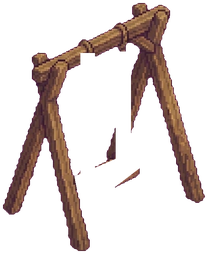
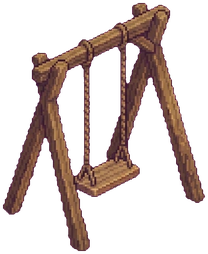
Хутір: гойдалка знову статичний спрайт
Claude-Session: https://claude.ai/code/session_01QbSGMrSJLDjAsZmBx5QAUW

Changed region(s): [[0.3462, 0.1929, 0.6635, 0.7992]]

diff --git a/ads/khutir/game.js b/ads/khutir/game.js
@@ -827,19 +827,6 @@
     q.fillStyle = '#2A1C14'; for (const [x, y] of e) q.fillRect(x, y, 1, 1);
     return (decoCache[k] = c);
   }
-  // гойдалка: мотузки й сидіння малюються кодом, щоб рухатись разом із селянином
-  const SW = {"t1": [-2.8, -34.0], "t2": [3.0, -35.7], "s1": [-4.8, -12.3], "s2": [3.3, -15.8], "s3": [6.1, -14.3], "s4": [-1.6, -9.0]};
-  const swingOff = (t) => { const a = Math.sin(t / 420); return [9 * a, 4.5 * a - Math.abs(a) * 1.5]; };
-  function drawSwing(X, Y, z, flip, a) {
-    g.save(); g.translate(X, Y); g.scale((flip ? -1 : 1) * z, z); const [dx, dy] = a, sp = (p) => [p[0] + dx, p[1] + dy];
-    g.lineCap = 'butt'; g.strokeStyle = '#8A6A3F'; g.lineWidth = 1;
-    const lineTo = (t0, q) => { g.beginPath(); g.moveTo(t0[0], t0[1]); g.lineTo(q[0], q[1]); g.stroke(); };
-    lineTo(SW.t2, sp([(SW.s2[0] + SW.s3[0]) / 2, (SW.s2[1] + SW.s3[1]) / 2]));
-    lineTo(SW.t1, sp([(SW.s1[0] + SW.s4[0]) / 2, (SW.s1[1] + SW.s4[1]) / 2]));
-    const c = [SW.s1, SW.s2, SW.s3, SW.s4].map(sp);
-    g.fillStyle = '#B98A5A'; g.strokeStyle = '#5E3C1E'; g.lineWidth = 0.7; g.beginPath(); c.forEach((q, i) => (i ? g.lineTo(q[0], q[1]) : g.moveTo(q[0], q[1]))); g.closePath(); g.fill(); g.stroke();
-    g.restore();
-  }
   function drawDecor(s, x, y, X, Y, z, t) {
     const k = s.d[K.idx(x, y)];
     if (k === 'path' || k === 'stone') return;
@@ -849,7 +836,6 @@
     if (SPR['d_' + k] || k === 'bench') {
       const dr = (s.dr && s.dr[K.idx(x, y)]) || 0, key = k === 'bench' ? 'd_bench' + (dr >= 2 ? 1 : 0) : 'd_' + k;
       if (dr % 2) { g.save(); g.translate(X, Y); g.scale(-1, 1); sprite(key, 0, 2 * z, z); g.restore(); } else sprite(key, X, Y + 2 * z, z);
-      if (k === 'swing') { const on = sitting.has(K.idx(x, y)); let o = on ? swingOff(t) : [0, 0]; if (dr % 2) o = [-o[0], o[1]]; drawSwing(X, Y + 2 * z, z, dr % 2, o); }
       return;
     }
     const im = pxDeco(k), c = 0.75 * z; g.imageSmoothingEnabled = false; g.drawImage(im, X - 16 * c, Y - 36 * c, 32 * c, 40 * c); g.imageSmoothingEnabled = true;
@@ -1050,11 +1036,10 @@
     }
     return [pts[0][0], pts[0][1], 1, 0];
   }
-  let vpos = [], lights = [], bubbles = [], marks = []; const sitting = new Set();
+  let vpos = [], lights = [], bubbles = [], marks = [];
   function drawVill(p, s, z, t) {
     const X = sx(p.x, p.y), Y = sy(p.x, p.y), v = s.vl[p.uid];
-    const so = p.swing ? swingOff(t) : [0, 0], flipS = p.swing && p.dir < 0 ? -1 : 1;
-    drawVillager(g, X + so[0] * flipS * z, Y + so[1] * z - (p.sit ? (p.swing ? 10 : 6) * z : 0), 1.25 * z, v.c, t, p.walk, p.dir, p.basket, p.back, p.sit);
+    drawVillager(g, X, Y - (p.sit ? (p.swing ? 10 : 6) * z : 0), 1.25 * z, v.c, t, p.walk, p.dir, p.basket, p.back, p.sit);
     if (p.sit) bubbles.push([X, Y - 8 * z, z * 0.7, '💤', 1]);
     vpos.push({ uid: p.uid, sx: X, sy: Y });
     const nt = darkness(t); if (nt.dark > 0.2) lights.push([X + 7 * z * p.dir, Y - 14 * z, 0.45]);
@@ -1081,8 +1066,8 @@
     const s = view, z = cam.z, t = now(), dt = t - viewAt;
     const bmap = new Map(); for (const b of s.b) bmap.set(K.idx(b.x, b.y), b);
     const bon = K.bonuses(s), rts = K.routes(s), vByTile = new Map();
-    lights = []; vpos = []; bubbles = []; marks = []; sitting.clear();
-    for (const uid of s.vo || []) { const p = villPos(s, uid, rts, t, dt); if (!p) continue; p.uid = uid; if (p.sit) sitting.add(K.idx(p.x, p.y)); const key = Math.floor(p.x + 0.5) + Math.floor(p.y + 0.5); if (!vByTile.has(key)) vByTile.set(key, []); vByTile.get(key).push(p); }
+    lights = []; vpos = []; bubbles = []; marks = [];
+    for (const uid of s.vo || []) { const p = villPos(s, uid, rts, t, dt); if (!p) continue; p.uid = uid; const key = Math.floor(p.x + 0.5) + Math.floor(p.y + 0.5); if (!vByTile.has(key)) vByTile.set(key, []); vByTile.get(key).push(p); }
     const ownedSet = new Set(s.ch);
     const buyable = new Set();
     for (const c of s.ch) { const x = c % K.NC, y = Math.floor(c / K.NC); for (const [dx, dy] of [[1, 0], [-1, 0], [0, 1], [0, -1]]) { const X = x + dx, Y = y + dy; if (X >= 0 && Y >= 0 && X < K.NC && Y < K.NC && !ownedSet.has(Y * K.NC + X)) buyable.add(Y * K.NC + X); } }

diff --git a/ads/khutir/anim.js b/ads/khutir/anim.js
@@ -2,7 +2,7 @@
    1. Намалюй кадри того самого розміру, що й статичний спрайт (інакше зсунеться прив'язка до землі).
    2. Поклади їх у img/anim/<назва>/0.webp, 1.webp, 2.webp… (підходить і .png — тоді вкажи ext:'png').
    3. Додай рядок нижче. Назва — як у файла статичного спрайта: mill, coop, oak, bush3…
-      n    — скільки кадрів
+      n    — скільки кадрів (до 6: «рвана» покадрова анімація)
       ms   — тривалість кадру в мілісекундах
       busy — true: грає лише коли будівля працює (інакше статичний спрайт)
    Поки кадри не завантажились або якщо якийсь не знайшовся, гра показує статичний спрайт.

diff --git a/upd.md b/upd.md
@@ -28,7 +28,7 @@
 
 - Швидкість абсолютна (0,6 клітинки за секунду, чоботи й настрій її змінюють), тож час обходу тепер залежить від довжини реального шляху. Пошук шляху перенесено в `sim.js`.
 - Недосяжна зупинка більше не вмикає прямий шлях крізь будівлі: вона просто пропускається. Поля можна перетинати, але неохоче. Селянин не заходить у будівлю, а стає біля неї.
-- Гойдалка: мотузки й сидіння рухаються разом із селянином.
+- Гойдалка знову цілий статичний спрайт; селянин на ній сидить нерухомо, анімація буде покадрова.
 - Зі спрайтів комори й ринку прибрано намальовану землю.
 
 ## 2026-11-02 (61) — Хутір: селянин веде чергу й відпочиває
